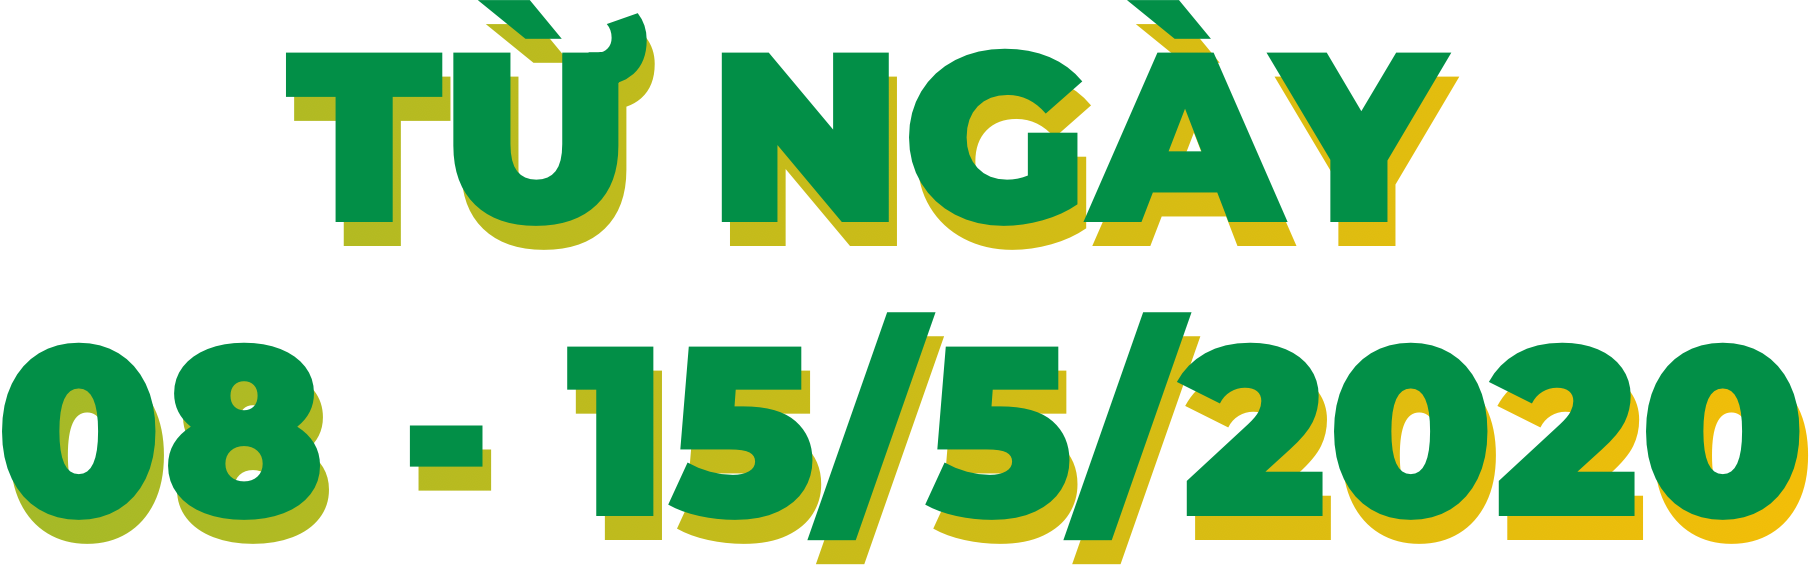
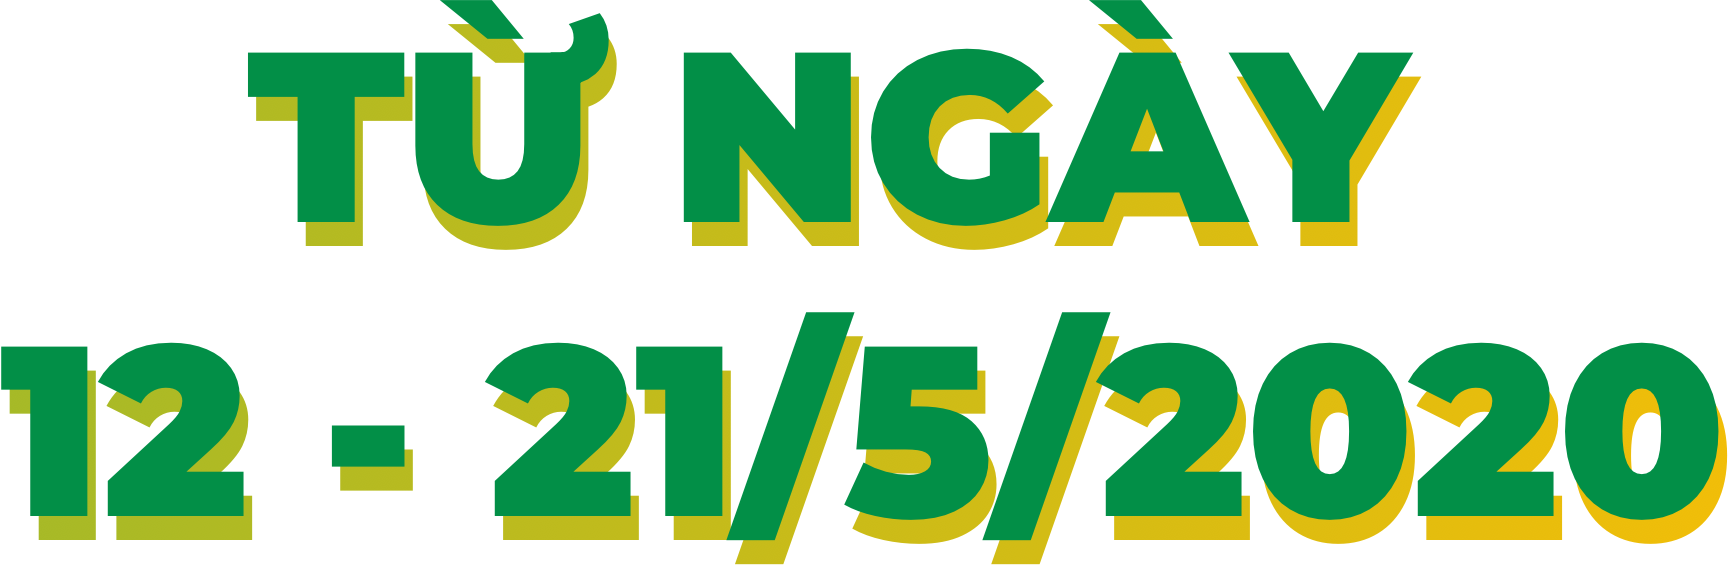
fast push

diff --git a/src/js/minify/common.min.js b/src/js/minify/common.min.js
@@ -1,1 +1,1 @@
-"use strict";function isMobile(){return/(android|bb\d+|meego).+mobile|avantgo|bada\/|blackberry|blazer|compal|elaine|fennec|hiptop|iemobile|ip(hone|od)|iris|kindle|lge |maemo|midp|mmp|netfront|opera m(ob|in)i|palm( os)?|phone|p(ixi|re)\/|plucker|pocket|psp|series(4|6)0|symbian|treo|up\.(browser|link)|vodafone|wap|windows (ce|phone)|xda|xiino|android|ipad|playbook|silk/i.test(navigator.userAgent||navigator.vendor||window.opera)||/1207|6310|6590|3gso|4thp|50[1-6]i|770s|802s|a wa|abac|ac(er|oo|s\-)|ai(ko|rn)|al(av|ca|co)|amoi|an(ex|ny|yw)|aptu|ar(ch|go)|as(te|us)|attw|au(di|\-m|r |s )|avan|be(ck|ll|nq)|bi(lb|rd)|bl(ac|az)|br(e|v)w|bumb|bw\-(n|u)|c55\/|capi|ccwa|cdm\-|cell|chtm|cldc|cmd\-|co(mp|nd)|craw|da(it|ll|ng)|dbte|dc\-s|devi|dica|dmob|do(c|p)o|ds(12|\-d)|el(49|ai)|em(l2|ul)|er(ic|k0)|esl8|ez([4-7]0|os|wa|ze)|fetc|fly(\-|_)|g1 u|g560|gene|gf\-5|g\-mo|go(\.w|od)|gr(ad|un)|haie|hcit|hd\-(m|p|t)|hei\-|hi(pt|ta)|hp( i|ip)|hs\-c|ht(c(\-| |_|a|g|p|s|t)|tp)|hu(aw|tc)|i\-(20|go|ma)|i230|iac( |\-|\/)|ibro|idea|ig01|ikom|im1k|inno|ipaq|iris|ja(t|v)a|jbro|jemu|jigs|kddi|keji|kgt( |\/)|klon|kpt |kwc\-|kyo(c|k)|le(no|xi)|lg( g|\/(k|l|u)|50|54|\-[a-w])|libw|lynx|m1\-w|m3ga|m50\/|ma(te|ui|xo)|mc(01|21|ca)|m\-cr|me(rc|ri)|mi(o8|oa|ts)|mmef|mo(01|02|bi|de|do|t(\-| |o|v)|zz)|mt(50|p1|v )|mwbp|mywa|n10[0-2]|n20[2-3]|n30(0|2)|n50(0|2|5)|n7(0(0|1)|10)|ne((c|m)\-|on|tf|wf|wg|wt)|nok(6|i)|nzph|o2im|op(ti|wv)|oran|owg1|p800|pan(a|d|t)|pdxg|pg(13|\-([1-8]|c))|phil|pire|pl(ay|uc)|pn\-2|po(ck|rt|se)|prox|psio|pt\-g|qa\-a|qc(07|12|21|32|60|\-[2-7]|i\-)|qtek|r380|r600|raks|rim9|ro(ve|zo)|s55\/|sa(ge|ma|mm|ms|ny|va)|sc(01|h\-|oo|p\-)|sdk\/|se(c(\-|0|1)|47|mc|nd|ri)|sgh\-|shar|sie(\-|m)|sk\-0|sl(45|id)|sm(al|ar|b3|it|t5)|so(ft|ny)|sp(01|h\-|v\-|v )|sy(01|mb)|t2(18|50)|t6(00|10|18)|ta(gt|lk)|tcl\-|tdg\-|tel(i|m)|tim\-|t\-mo|to(pl|sh)|ts(70|m\-|m3|m5)|tx\-9|up(\.b|g1|si)|utst|v400|v750|veri|vi(rg|te)|vk(40|5[0-3]|\-v)|vm40|voda|vulc|vx(52|53|60|61|70|80|81|83|85|98)|w3c(\-| )|webc|whit|wi(g |nc|nw)|wmlb|wonu|x700|yas\-|your|zeto|zte\-/i.test((navigator.userAgent||navigator.vendor||window.opera).substr(0,4))}var isOpera=!!window.opr&&!!opr.addons||!!window.opera||navigator.userAgent.indexOf(" OPR/")>=0,isFirefox="undefined"!=typeof InstallTrigger,isSafari=Object.prototype.toString.call(window.HTMLElement).indexOf("Constructor")>0,isIE=!!document.documentMode,isEdge=!isIE&&!!window.StyleMedia,isChrome=!!window.chrome&&!!window.chrome.webstore,isBlink=(isChrome||isOpera)&&!!window.CSS,baseUrl="http://vibanxungdang.merapgroup.com.vn/api/public/api/",isLocal="file:"===window.location.protocol||"localhost:"===window.location.protocol;const MerapCustomEvent={START_GAME:"start-game",END_GAME:"end-game"},StartGameEvent=new CustomEvent(MerapCustomEvent.START_GAME),EndGameEvent=new CustomEvent(MerapCustomEvent.END_GAME);var youtubeVideoHolder,youtubeVideoID,youtubePlayer,block={ch1:{key:"Enter",keycode:"13"}};function onYouTubeIframeAPIReady(){youtubePlayer=new YT.Player("merap-video-player",{height:youtubeVideoHolder.height(),width:youtubeVideoHolder.width(),videoId:youtubeVideoID,events:{onReady:onPlayerReady,onStateChange:onPlayerStateChange}})}function onPlayerReady(e){}function onPlayerStateChange(e){e.data==YT.PlayerState.ENDED&&(TweenMax.to($(".merap-video-thumb-image"),.3,{autoAlpha:1,ease:Sine.easeOut}),TweenMax.to($(".merap-video-thumb-overlay"),.3,{autoAlpha:1,ease:Sine.easeOut}),TweenMax.to($(".merap-video-thumb-svg"),.3,{autoAlpha:1,ease:Sine.easeOut}),TweenMax.to($(".video__title--mobile"),.3,{autoAlpha:1,ease:Sine.easeOut}),TweenMax.to($(".video__info--mobile"),.3,{autoAlpha:1,ease:Sine.easeOut}))}function isValid(e){return!/[~`!@#$%\^&*()+=\-\[\]\\';,.\/{}|\\":<>\?]/g.test(e)}function stopVideo(){youtubePlayer.stopVideo()}$(function(){var e,t=$(".loader"),o=[$(".video__section")],i=[$("#video-bg")],n=$(".floating__menu"),a=$("#milestone-mobile"),s=$("#milestone-time"),r=$("#milestone-name"),c=[{},{}],d=[],l=1,u=$(".tnc__image"),m=function(){b(),(isMobile()||$(window).width()<1e3)&&_(),h(),g(),e=$(".BTT_button"),null!=$(".BTT_button")[0]&&(C(),M())},p=function(){for(var e=0;e<i.length;e++){const t=i[e],n=o[e],a=t.width(),s=t.height(),r=$(window).width(),c=$(window).height();$(window).width()<1e3||isMobile()?(t.css({width:"100%",height:"auto",top:"0px",left:"0px",transform:"none"}),n.css({width:"100%",height:"auto"})):(n.css({width:"100%",height:"calc(100vh - 72px)"}),s<c&&t.css({height:c,width:"auto",top:"50%",left:"50%",transform:"translate(-50%, -50%)"}),a<r&&t.css({width:r,height:"auto",top:"50%",left:"50%",transform:"translate(-50%, -50%)"}))}},h=function(){$(".tnc__section").each(function(e){const t=$(this),o=t.find(".ec__button");o.attr("tncid",e),d.push(t),o.on("click",w)})},w=function(e){const t=$(e.currentTarget).attr("tncid");for(var o=0;o<d.length;o++){const e=d[o];t==o&&e.toggleClass("active")}},g=function(){var e=document.createElement("script");(youtubeVideoHolder=$("#merap-video-thumb")).on("click",v),youtubeVideoID=$("#merap-video-thumb").attr("videoID"),e.src="https://www.youtube.com/iframe_api";var t=document.getElementsByTagName("script")[0];t.parentNode.insertBefore(e,t)},v=function(){youtubePlayer.playVideo(),f()},f=function(){TweenMax.to($(".merap-video-thumb-image"),.3,{autoAlpha:0,ease:Sine.easeOut}),TweenMax.to($(".merap-video-thumb-overlay"),.3,{autoAlpha:0,ease:Sine.easeOut}),TweenMax.to($(".merap-video-thumb-svg"),.3,{autoAlpha:0,ease:Sine.easeOut}),TweenMax.to($(".video__title--mobile"),.3,{autoAlpha:0,ease:Sine.easeOut}),TweenMax.to($(".video__info--mobile"),.3,{autoAlpha:0,ease:Sine.easeOut})},b=function(){$(".game__holder .game__item").each(function(e){const t=$(this),o=t.attr("itemid"),i=t.position().left,n=t.find(".game__period").text().trim(),a=t.find(".button__wrapper").text().trim();t.on("click",k),t.hasClass("active")&&(l=o);const s={left:i,time:n,gameName:a};c[o]=s}),y()},y=function(){const e=c[l];s.text(e.time),r.text(e.gameName),TweenMax.to(a,.3,{left:e.left,ease:Back.easeOut});const t="./images/all-prize-"+(Number(l)+1)+".png";u.each(function(e){$(this).attr("src",t)})},k=function(e){const t=$(e.currentTarget),o=t.attr("itemid");l=Number(o),t.addClass("active"),$(".game__holder .game__item").each(function(e){const t=$(this);t.attr("itemid")!=l&&t.removeClass("active")}),y()},_=function(){a.draggable({axis:"x",start:x,drag:T,stop:E})},x=function(e,t){$(".game__holder .game__item").each(function(e){$(this).removeClass("active")})},T=function(e,t){const o=t.position.left;for(var i=0;i<c.length;i++){const e=c[i];Math.abs(e.left-o)<=50&&(l=i,s.text(e.time),r.text(e.gameName))}},E=function(e,t){c[l].left;$(".game__holder .game__item").each(function(e){var t=$(this);t.attr("itemid")==l?t.addClass("active"):t.removeClass("active")}),y()},C=function(){TweenMax.to(n,.3,{autoAlpha:0,ease:Sine.easeOut}),$(window).scroll(function(e){M()}),e.on("click",function(e){e.preventDefault(),$("body,html").animate({scrollTop:0},700)})},M=function(){$(window).scrollTop()>300?(e.addClass("cd-is-visible"),TweenMax.to(n,.3,{autoAlpha:1,ease:Sine.easeOut})):(e.removeClass("cd-is-visible cd-fade-out"),TweenMax.to(n,.3,{autoAlpha:0,ease:Sine.easeOut})),$(window).scrollTop()>1200&&e.addClass("cd-fade-out")},S=function(){TweenMax.to(t,.1,{autoAlpha:0,ease:Sine.easeOut,onComplete:()=>{if(A(),window.location.hash.includes("quiz-section")){const e=$(document).height()-$("#quiz-section").height()-150;$(window).scrollTop(e)}}}),$("body").css("overflow-y","visible")},A=function(e){clearTimeout(void 0),p()},O=function(){document.getElementById("phone").addEventListener("keypress",function(e){13===e.keyCode&&(e.preventDefault(),document.getElementById("register-button").click())}),document.getElementById("ref_code").addEventListener("keypress",function(e){13===e.keyCode&&(e.preventDefault(),document.getElementById("register-button").click())}),document.getElementById("answer-input").addEventListener("keypress",function(e){13===e.keyCode&&(e.preventDefault(),document.getElementById("quiz-button").click())})},I=function(){document.getElementById("playnow-hover-button").addEventListener("click",function(){window.scrollTo(0,document.body.scrollHeight+600)},!1),document.getElementById("navbar-game-button").addEventListener("click",function(){window.scrollTo(0,document.body.scrollHeight+600)},!1),document.getElementById("navbar-logo").addEventListener("click",function(){window.scrollTo(0,0)},!1)};setTimeout(function(){I(),m(),p(),O(),$(window).on("resize",A),setTimeout(S,500);var e=$("#registration-section").position();window.scrollTo({top:e.top-80,behavior:"smooth"})},100)}),$("#login-refcode").keypress(function(e){return isValid(String.fromCharCode(e.keyCode))}),$("#ref_code").keypress(function(e){return isValid(String.fromCharCode(e.keyCode))});
+"use strict";function isMobile(){return/(android|bb\d+|meego).+mobile|avantgo|bada\/|blackberry|blazer|compal|elaine|fennec|hiptop|iemobile|ip(hone|od)|iris|kindle|lge |maemo|midp|mmp|netfront|opera m(ob|in)i|palm( os)?|phone|p(ixi|re)\/|plucker|pocket|psp|series(4|6)0|symbian|treo|up\.(browser|link)|vodafone|wap|windows (ce|phone)|xda|xiino|android|ipad|playbook|silk/i.test(navigator.userAgent||navigator.vendor||window.opera)||/1207|6310|6590|3gso|4thp|50[1-6]i|770s|802s|a wa|abac|ac(er|oo|s\-)|ai(ko|rn)|al(av|ca|co)|amoi|an(ex|ny|yw)|aptu|ar(ch|go)|as(te|us)|attw|au(di|\-m|r |s )|avan|be(ck|ll|nq)|bi(lb|rd)|bl(ac|az)|br(e|v)w|bumb|bw\-(n|u)|c55\/|capi|ccwa|cdm\-|cell|chtm|cldc|cmd\-|co(mp|nd)|craw|da(it|ll|ng)|dbte|dc\-s|devi|dica|dmob|do(c|p)o|ds(12|\-d)|el(49|ai)|em(l2|ul)|er(ic|k0)|esl8|ez([4-7]0|os|wa|ze)|fetc|fly(\-|_)|g1 u|g560|gene|gf\-5|g\-mo|go(\.w|od)|gr(ad|un)|haie|hcit|hd\-(m|p|t)|hei\-|hi(pt|ta)|hp( i|ip)|hs\-c|ht(c(\-| |_|a|g|p|s|t)|tp)|hu(aw|tc)|i\-(20|go|ma)|i230|iac( |\-|\/)|ibro|idea|ig01|ikom|im1k|inno|ipaq|iris|ja(t|v)a|jbro|jemu|jigs|kddi|keji|kgt( |\/)|klon|kpt |kwc\-|kyo(c|k)|le(no|xi)|lg( g|\/(k|l|u)|50|54|\-[a-w])|libw|lynx|m1\-w|m3ga|m50\/|ma(te|ui|xo)|mc(01|21|ca)|m\-cr|me(rc|ri)|mi(o8|oa|ts)|mmef|mo(01|02|bi|de|do|t(\-| |o|v)|zz)|mt(50|p1|v )|mwbp|mywa|n10[0-2]|n20[2-3]|n30(0|2)|n50(0|2|5)|n7(0(0|1)|10)|ne((c|m)\-|on|tf|wf|wg|wt)|nok(6|i)|nzph|o2im|op(ti|wv)|oran|owg1|p800|pan(a|d|t)|pdxg|pg(13|\-([1-8]|c))|phil|pire|pl(ay|uc)|pn\-2|po(ck|rt|se)|prox|psio|pt\-g|qa\-a|qc(07|12|21|32|60|\-[2-7]|i\-)|qtek|r380|r600|raks|rim9|ro(ve|zo)|s55\/|sa(ge|ma|mm|ms|ny|va)|sc(01|h\-|oo|p\-)|sdk\/|se(c(\-|0|1)|47|mc|nd|ri)|sgh\-|shar|sie(\-|m)|sk\-0|sl(45|id)|sm(al|ar|b3|it|t5)|so(ft|ny)|sp(01|h\-|v\-|v )|sy(01|mb)|t2(18|50)|t6(00|10|18)|ta(gt|lk)|tcl\-|tdg\-|tel(i|m)|tim\-|t\-mo|to(pl|sh)|ts(70|m\-|m3|m5)|tx\-9|up(\.b|g1|si)|utst|v400|v750|veri|vi(rg|te)|vk(40|5[0-3]|\-v)|vm40|voda|vulc|vx(52|53|60|61|70|80|81|83|85|98)|w3c(\-| )|webc|whit|wi(g |nc|nw)|wmlb|wonu|x700|yas\-|your|zeto|zte\-/i.test((navigator.userAgent||navigator.vendor||window.opera).substr(0,4))}var isOpera=!!window.opr&&!!opr.addons||!!window.opera||navigator.userAgent.indexOf(" OPR/")>=0,isFirefox="undefined"!=typeof InstallTrigger,isSafari=Object.prototype.toString.call(window.HTMLElement).indexOf("Constructor")>0,isIE=!!document.documentMode,isEdge=!isIE&&!!window.StyleMedia,isChrome=!!window.chrome&&!!window.chrome.webstore,isBlink=(isChrome||isOpera)&&!!window.CSS,baseUrl="https://vibanxungdang.merapgroup.com.vn/api/public/api/",isLocal="file:"===window.location.protocol||"localhost:"===window.location.protocol;const MerapCustomEvent={START_GAME:"start-game",END_GAME:"end-game"},StartGameEvent=new CustomEvent(MerapCustomEvent.START_GAME),EndGameEvent=new CustomEvent(MerapCustomEvent.END_GAME);var youtubeVideoHolder,youtubeVideoID,youtubePlayer,block={ch1:{key:"Enter",keycode:"13"}};function onYouTubeIframeAPIReady(){youtubePlayer=new YT.Player("merap-video-player",{height:youtubeVideoHolder.height(),width:youtubeVideoHolder.width(),videoId:youtubeVideoID,events:{onReady:onPlayerReady,onStateChange:onPlayerStateChange}})}function onPlayerReady(e){}function onPlayerStateChange(e){e.data==YT.PlayerState.ENDED&&(TweenMax.to($(".merap-video-thumb-image"),.3,{autoAlpha:1,ease:Sine.easeOut}),TweenMax.to($(".merap-video-thumb-overlay"),.3,{autoAlpha:1,ease:Sine.easeOut}),TweenMax.to($(".merap-video-thumb-svg"),.3,{autoAlpha:1,ease:Sine.easeOut}),TweenMax.to($(".video__title--mobile"),.3,{autoAlpha:1,ease:Sine.easeOut}),TweenMax.to($(".video__info--mobile"),.3,{autoAlpha:1,ease:Sine.easeOut}))}function isValid(e){return!/[~`!@#$%\^&*()+=\-\[\]\\';,.\/{}|\\":<>\?]/g.test(e)}function stopVideo(){youtubePlayer.stopVideo()}$(function(){var e,t=$(".loader"),o=[$(".video__section")],i=[$("#video-bg")],n=$(".floating__menu"),a=$("#milestone-mobile"),s=$("#milestone-time"),r=$("#milestone-name"),c=[{},{}],d=[],l=1,u=$(".tnc__image"),m=function(){b(),(isMobile()||$(window).width()<1e3)&&_(),h(),g(),e=$(".BTT_button"),null!=$(".BTT_button")[0]&&(C(),M())},p=function(){for(var e=0;e<i.length;e++){const t=i[e],n=o[e],a=t.width(),s=t.height(),r=$(window).width(),c=$(window).height();$(window).width()<1e3||isMobile()?(t.css({width:"100%",height:"auto",top:"0px",left:"0px",transform:"none"}),n.css({width:"100%",height:"auto"})):(n.css({width:"100%",height:"calc(100vh - 72px)"}),s<c&&t.css({height:c,width:"auto",top:"50%",left:"50%",transform:"translate(-50%, -50%)"}),a<r&&t.css({width:r,height:"auto",top:"50%",left:"50%",transform:"translate(-50%, -50%)"}))}},h=function(){$(".tnc__section").each(function(e){const t=$(this),o=t.find(".ec__button");o.attr("tncid",e),d.push(t),o.on("click",w)})},w=function(e){const t=$(e.currentTarget).attr("tncid");for(var o=0;o<d.length;o++){const e=d[o];t==o&&e.toggleClass("active")}},g=function(){var e=document.createElement("script");(youtubeVideoHolder=$("#merap-video-thumb")).on("click",v),youtubeVideoID=$("#merap-video-thumb").attr("videoID"),e.src="https://www.youtube.com/iframe_api";var t=document.getElementsByTagName("script")[0];t.parentNode.insertBefore(e,t)},v=function(){youtubePlayer.playVideo(),f()},f=function(){TweenMax.to($(".merap-video-thumb-image"),.3,{autoAlpha:0,ease:Sine.easeOut}),TweenMax.to($(".merap-video-thumb-overlay"),.3,{autoAlpha:0,ease:Sine.easeOut}),TweenMax.to($(".merap-video-thumb-svg"),.3,{autoAlpha:0,ease:Sine.easeOut}),TweenMax.to($(".video__title--mobile"),.3,{autoAlpha:0,ease:Sine.easeOut}),TweenMax.to($(".video__info--mobile"),.3,{autoAlpha:0,ease:Sine.easeOut})},b=function(){$(".game__holder .game__item").each(function(e){const t=$(this),o=t.attr("itemid"),i=t.position().left,n=t.find(".game__period").text().trim(),a=t.find(".button__wrapper").text().trim();t.on("click",k),t.hasClass("active")&&(l=o);const s={left:i,time:n,gameName:a};c[o]=s}),y()},y=function(){const e=c[l];s.text(e.time),r.text(e.gameName),TweenMax.to(a,.3,{left:e.left,ease:Back.easeOut});const t="./images/all-prize-"+(Number(l)+1)+".png";u.each(function(e){$(this).attr("src",t)})},k=function(e){const t=$(e.currentTarget),o=t.attr("itemid");l=Number(o),t.addClass("active"),$(".game__holder .game__item").each(function(e){const t=$(this);t.attr("itemid")!=l&&t.removeClass("active")}),y()},_=function(){a.draggable({axis:"x",start:x,drag:T,stop:E})},x=function(e,t){$(".game__holder .game__item").each(function(e){$(this).removeClass("active")})},T=function(e,t){const o=t.position.left;for(var i=0;i<c.length;i++){const e=c[i];Math.abs(e.left-o)<=50&&(l=i,s.text(e.time),r.text(e.gameName))}},E=function(e,t){c[l].left;$(".game__holder .game__item").each(function(e){var t=$(this);t.attr("itemid")==l?t.addClass("active"):t.removeClass("active")}),y()},C=function(){TweenMax.to(n,.3,{autoAlpha:0,ease:Sine.easeOut}),$(window).scroll(function(e){M()}),e.on("click",function(e){e.preventDefault(),$("body,html").animate({scrollTop:0},700)})},M=function(){$(window).scrollTop()>300?(e.addClass("cd-is-visible"),TweenMax.to(n,.3,{autoAlpha:1,ease:Sine.easeOut})):(e.removeClass("cd-is-visible cd-fade-out"),TweenMax.to(n,.3,{autoAlpha:0,ease:Sine.easeOut})),$(window).scrollTop()>1200&&e.addClass("cd-fade-out")},S=function(){TweenMax.to(t,.1,{autoAlpha:0,ease:Sine.easeOut,onComplete:()=>{if(A(),window.location.hash.includes("quiz-section")){const e=$(document).height()-$("#quiz-section").height()-150;$(window).scrollTop(e)}}}),$("body").css("overflow-y","visible")},A=function(e){clearTimeout(void 0),p()},O=function(){document.getElementById("phone").addEventListener("keypress",function(e){13===e.keyCode&&(e.preventDefault(),document.getElementById("register-button").click())}),document.getElementById("ref_code").addEventListener("keypress",function(e){13===e.keyCode&&(e.preventDefault(),document.getElementById("register-button").click())}),document.getElementById("answer-input").addEventListener("keypress",function(e){13===e.keyCode&&(e.preventDefault(),document.getElementById("quiz-button").click())})},I=function(){document.getElementById("playnow-hover-button").addEventListener("click",function(){window.scrollTo(0,document.body.scrollHeight+600)},!1),document.getElementById("navbar-game-button").addEventListener("click",function(){window.scrollTo(0,document.body.scrollHeight+600)},!1),document.getElementById("navbar-logo").addEventListener("click",function(){window.scrollTo(0,0)},!1)};setTimeout(function(){I(),m(),p(),O(),$(window).on("resize",A),setTimeout(S,500);var e=$("#registration-section").position();window.scrollTo({top:e.top-80,behavior:"smooth"})},100)}),$("#login-refcode").keypress(function(e){return isValid(String.fromCharCode(e.keyCode))}),$("#ref_code").keypress(function(e){return isValid(String.fromCharCode(e.keyCode))});

diff --git a/src/js/minify/registration-part2.min.js b/src/js/minify/registration-part2.min.js
@@ -1,1 +1,1 @@
-$(function(){let n=[],e=[],i=0,a=0,o=[{id:25,name:"Q. Ba Đình"},{id:26,name:"Q. Cầu Giấy"},{id:27,name:"Q. Đống Đa"},{id:28,name:"Q. Hai Bà Trưng"},{id:29,name:"Q. Hoàn Kiếm"},{id:30,name:"Q. Long Biên"},{id:31,name:"Q. Tây Hồ"},{id:32,name:"Q. Thanh Xuân"},{id:33,name:"Q. Hoàng Mai"},{id:34,name:"H. Đông Anh"},{id:35,name:"H. Gia Lâm"},{id:36,name:"H. Sóc Sơn"},{id:37,name:"H. Thanh Trì"},{id:38,name:"H. Từ Liêm"},{id:629,name:"H. Chương Mỹ"},{id:630,name:"H. Đan Phượng"},{id:631,name:"Q. Hà Đông"},{id:632,name:"H. Hoài Đức"},{id:633,name:"H. Phú Xuyên"},{id:649,name:"H. Ba Vì"},{id:650,name:"T. Bắc Ninh"},{id:651,name:"T. Hà Tây"},{id:652,name:"T. Hưng Yên"},{id:653,name:"H. Mê Linh"},{id:654,name:"H. Mỹ Đức"},{id:655,name:"P. Nguyễn Tuân"},{id:656,name:"H. Quốc Oai"},{id:657,name:"TX. Sơn Tây"},{id:658,name:"X. Tân Triều"},{id:659,name:"H. Thạch Thất"},{id:660,name:"H. Văn Giang"},{id:663,name:"H. Thường Tín"},{id:675,name:"TT. Xuân Mai"},{id:676,name:"TT. Phú Minh"},{id:677,name:"H. Đông Ba"},{id:678,name:"Q. Hòa Bình"}],t={message:"Update success"},c=$("#registration-profile"),s=$("#profile-error"),d=$("#profile-button"),m="profile",r="login",l=0,h=["passport","username_facebook","email","province_id","district_id","address","company_name"],u={passport:"passport",username_facebook:"nick-facebook",email:"email",address:"work-address",company_name:"store-address"},g=$("#agreement-checkbox"),p={email:"Vui lòng nhập email của bạn",passport:"Vui lòng nhập số CMND để nhận giải thưởng",username_facebook:"Vui lòng nhập nick facebook của bạn để tham gia",province_id:"Bạn chưa chọn địa chỉ đang công tác",district_id:"Bạn chưa chọn địa chỉ đang công tác",address:"Bạn chưa nhập đầy đủ địa chỉ đang công tác",company_name:"Bạn chưa nhập đầy đủ địa chỉ đang công tác"},T={email:null,passport:null,username_facebook:null,province_id:null,district_id:null,address:null,company_name:null},f=$("#tnc-link"),w=$("#security-link"),H=$("#profile-guide"),y=$("#guide-button"),k=$("#profile-content"),B=$("#congrate-holder"),b=$("#congrate-button"),v=$("#congrate-title"),N=$("#congrate-message"),M=$("#quiz-section"),x=$("#quiz-result-feedback"),S=function(){_(),d.on("click",O),isLocal?(n=[{id:4,name:"Hà Nội"},{id:8,name:"TP. Hồ Chí Minh"},{id:76,name:"An Giang"},{id:64,name:"Bà Rịa Vũng Tàu"},{id:781,name:"Bắc Cạn"},{id:281,name:"Bắc Giang"},{id:240,name:"Bạc Liêu"},{id:241,name:"Bắc Ninh"},{id:75,name:"Bến Tre"},{id:650,name:"Bình Định"},{id:56,name:"Bình Dương"},{id:651,name:"Bình Phước"},{id:62,name:"Bình Thuận"},{id:780,name:"Cà Mau"},{id:710,name:"Cần Thơ"},{id:26,name:"Cao Bằng"},{id:511,name:"Đà Nẵng"},{id:500,name:"Đăk Lăk"},{id:501,name:"Đăk Nông"},{id:230,name:"Điện Biên"},{id:61,name:"Đồng Nai"},{id:67,name:"Đồng Tháp"},{id:59,name:"Gia Lai"},{id:219,name:"Hà Giang"},{id:351,name:"Hà Nam"},{id:43,name:"Hà Tây"},{id:39,name:"Hà Tĩnh"},{id:320,name:"Hải Dương"},{id:31,name:"Hải Phòng"},{id:711,name:"Hậu Giang"},{id:218,name:"Hòa Bình"},{id:321,name:"Hưng Yên"},{id:58,name:"Khánh Hòa"},{id:77,name:"Kiên Giang"},{id:60,name:"Kon Tum"},{id:231,name:"Lai Châu"},{id:25,name:"Lâm Đồng"},{id:20,name:"Lạng Sơn"},{id:63,name:"Lào Cai"},{id:72,name:"Long An"},{id:350,name:"Nam Định"},{id:38,name:"Nghệ An"},{id:30,name:"Ninh Bình"},{id:68,name:"Ninh Thuận"},{id:210,name:"Phú Thọ"},{id:57,name:"Phú Yên"},{id:52,name:"Quảng Bình"},{id:510,name:"Quảng Nam"},{id:55,name:"Quảng Ngãi"},{id:33,name:"Quảng Ninh"},{id:53,name:"Quảng Trị"},{id:79,name:"Sóc Trăng"},{id:22,name:"Sơn La"},{id:66,name:"Tây Ninh"},{id:36,name:"Thái Bình"},{id:280,name:"Thái Nguyên"},{id:282,name:"Thanh Hóa"},{id:37,name:"Thanh Hóa"},{id:54,name:"Thừa Thiên Huế"},{id:73,name:"Tiền Giang"},{id:74,name:"Trà Vinh"},{id:27,name:"Tuyên Quang"},{id:70,name:"Vĩnh Long"},{id:211,name:"Vĩnh Phúc"},{id:29,name:"Yên Bái"}],z()):D()},_=function(){f.on("click",()=>{$(".tnc__section").removeClass("active"),$("#condition-section").addClass("active")}),w.on("click",()=>{$(".tnc__section").removeClass("active"),$("#security-section").addClass("active")})},L=function(n,e){switch(n){case m:TweenMax.killTweensOf(s),TweenMax.to(s,.3,{alpha:1,ease:Sine.easeOut}),s.html(e);break;case r:TweenMax.killTweensOf(loginError),TweenMax.to(loginError,.3,{alpha:1,ease:Sine.easeOut}),loginError.html(e)}clearTimeout(l),l=setTimeout(Q,5e3,n)},Q=function(n){switch(n){case m:TweenMax.killTweensOf(s),TweenMax.to(s,.3,{alpha:0,ease:Sine.easeOut});break;case r:TweenMax.killTweensOf(loginError),TweenMax.to(loginError,.3,{alpha:0,ease:Sine.easeOut})}},O=function(){if(V(),A())if(g.prop("checked"))if(isLocal)C(t);else{const n=baseUrl+"profile";$.ajax({headers:{Authorization:"Bearer "+window.localStorage.getItem("token")},type:"POST",contentType:"application/json",data:JSON.stringify(T),url:n,success:C,error:E})}else L(m,"Bạn chưa đồng ý với điều khoản và thể lệ chương trình!")},C=function(n){"Update success"===n.message&&(window.localStorage.setItem("profile",!0),P(),G())},P=function(){c.css({position:"absolute",left:"-100%",top:"-100%",opacity:0,visibility:"hidden"})},G=function(){B.css({display:"block"})},E=function(n){const e=n.responseJSON;e.message?L(m,e.message):L(m,"Không thể đăng ký, vui lòng kiểm tra lại thông tin!")},V=function(){0!=i&&(T.province_id=i),0!=a&&(T.district_id=a),Object.keys(u).forEach(n=>{const e=$("#"+u[n]).val();T[n]=e}),F(i,Z)},A=function(){const n=[];for(let e=0;e<h.length;e++){const i=h[e];if(null===T[i]||void 0===T[i]||""===T[i]){const e=p[i];if(!n.includes(i))return L(m,e),!1}}return!0},D=function(){const n=baseUrl+"province";$.ajax({type:"GET",url:n,success:K,error:j})},K=function(e){n=e,z()},j=function(n){const e=n.responseJSON;e.message?s.html(e.message):s.html("Please try again later!")},z=function(){const e=n.map(n=>n.name);new DropDownBox("dropdown-work-city",{itemArray:e,itemHeight:40},"Tỉnh/Thành Phố",R);y.on("click",J),b.on("click",U),Y()},U=function(){Number(window.localStorage.getItem("gameLeft"))>0?(P(),B.css({display:"none"}),setTimeout(I,100),x.css("display","none")):X()},X=function(){TweenMax.killTweensOf(N),TweenMax.to(N,.3,{autoAlpha:1,ease:Sine.easeOut}),$("#congrate-button-text").text("OK"),v.text("Bạn đã hết lượt chơi."),N.text("Hẹn gặp bạn ở chương trình sau!"),$("#congrate-button-text").on("click",()=>{window.scrollTo(0,0)}),clearTimeout(void 0)},J=function(){q()},Y=function(){H.css({display:"block"}),k.css({opacity:0,visibility:"hidden"})},q=function(){H.css({display:"none"}),k.css({opacity:1,visibility:"visible"})},I=function(){M.css({position:"relative",opacity:1,visibility:"visible"}),window.dispatchEvent(StartGameEvent);const n=$(document).height()-$("#quiz-section").height()-100;$(window).scrollTop(n)},R=function(e){i=n.find(n=>n.name===e).id,a=0,isLocal?Z(o):F(i,Z)},F=function(n,e){const i=baseUrl+"province/"+n;$.ajax({type:"GET",url:i,success:e,error:W})},W=function(n){const e=n.responseJSON;e.message?s.html(e.message):s.html("Please try again later!")},Z=function(n){e=n;const i={itemArray:n.map(n=>n.name),itemHeight:40};new DropDownBox("dropdown-work-dist",i,"Quận/Huyện",nn)},nn=function(n){a=e.find(e=>e.name===n).id},en=function(){window.dropdownMap&&window.dropdownMap.size>0&&window.dropdownMap.forEach(n=>n.collapse())};window.addEventListener("click",en),S()});
+$(function(){let n=[],e=[],i=[],a=0,o=0,t=[{id:25,name:"Q. Ba Đình"},{id:26,name:"Q. Cầu Giấy"},{id:27,name:"Q. Đống Đa"},{id:28,name:"Q. Hai Bà Trưng"},{id:29,name:"Q. Hoàn Kiếm"},{id:30,name:"Q. Long Biên"},{id:31,name:"Q. Tây Hồ"},{id:32,name:"Q. Thanh Xuân"},{id:33,name:"Q. Hoàng Mai"},{id:34,name:"H. Đông Anh"},{id:35,name:"H. Gia Lâm"},{id:36,name:"H. Sóc Sơn"},{id:37,name:"H. Thanh Trì"},{id:38,name:"H. Từ Liêm"},{id:629,name:"H. Chương Mỹ"},{id:630,name:"H. Đan Phượng"},{id:631,name:"Q. Hà Đông"},{id:632,name:"H. Hoài Đức"},{id:633,name:"H. Phú Xuyên"},{id:649,name:"H. Ba Vì"},{id:650,name:"T. Bắc Ninh"},{id:651,name:"T. Hà Tây"},{id:652,name:"T. Hưng Yên"},{id:653,name:"H. Mê Linh"},{id:654,name:"H. Mỹ Đức"},{id:655,name:"P. Nguyễn Tuân"},{id:656,name:"H. Quốc Oai"},{id:657,name:"TX. Sơn Tây"},{id:658,name:"X. Tân Triều"},{id:659,name:"H. Thạch Thất"},{id:660,name:"H. Văn Giang"},{id:663,name:"H. Thường Tín"},{id:675,name:"TT. Xuân Mai"},{id:676,name:"TT. Phú Minh"},{id:677,name:"H. Đông Ba"},{id:678,name:"Q. Hòa Bình"}],c={message:"Update success"},s=$("#registration-profile"),d=$("#profile-error"),m=$("#profile-button"),r="profile",l="login",h=0,u=["passport","username_facebook","email","province_id","district_id","address","company_name"],g={passport:"passport",username_facebook:"nick-facebook",email:"email",address:"work-address",company_name:"store-address"},p=$("#agreement-checkbox"),T={email:"Vui lòng nhập email của bạn",passport:"Vui lòng nhập số CMND để nhận giải thưởng",username_facebook:"Vui lòng nhập nick facebook của bạn để tham gia",province_id:"Bạn chưa chọn địa chỉ đang công tác",district_id:"Bạn chưa chọn địa chỉ đang công tác",address:"Bạn chưa nhập đầy đủ địa chỉ đang công tác",company_name:"Bạn chưa nhập đầy đủ địa chỉ đang công tác"},f={email:null,passport:null,username_facebook:null,province_id:null,district_id:null,address:null,company_name:null},w=$("#tnc-link"),H=$("#security-link"),y=$("#profile-guide"),k=$("#guide-button"),B=$("#profile-content"),b=$("#congrate-holder"),v=$("#congrate-button"),N=$("#congrate-title"),M=$("#congrate-message"),x=$("#quiz-section"),S=$("#quiz-result-feedback"),_=function(){L(),m.on("click",C),isLocal?(n=[{id:4,name:"Hà Nội"},{id:8,name:"TP. Hồ Chí Minh"},{id:76,name:"An Giang"},{id:64,name:"Bà Rịa Vũng Tàu"},{id:781,name:"Bắc Cạn"},{id:281,name:"Bắc Giang"},{id:240,name:"Bạc Liêu"},{id:241,name:"Bắc Ninh"},{id:75,name:"Bến Tre"},{id:650,name:"Bình Định"},{id:56,name:"Bình Dương"},{id:651,name:"Bình Phước"},{id:62,name:"Bình Thuận"},{id:780,name:"Cà Mau"},{id:710,name:"Cần Thơ"},{id:26,name:"Cao Bằng"},{id:511,name:"Đà Nẵng"},{id:500,name:"Đăk Lăk"},{id:501,name:"Đăk Nông"},{id:230,name:"Điện Biên"},{id:61,name:"Đồng Nai"},{id:67,name:"Đồng Tháp"},{id:59,name:"Gia Lai"},{id:219,name:"Hà Giang"},{id:351,name:"Hà Nam"},{id:43,name:"Hà Tây"},{id:39,name:"Hà Tĩnh"},{id:320,name:"Hải Dương"},{id:31,name:"Hải Phòng"},{id:711,name:"Hậu Giang"},{id:218,name:"Hòa Bình"},{id:321,name:"Hưng Yên"},{id:58,name:"Khánh Hòa"},{id:77,name:"Kiên Giang"},{id:60,name:"Kon Tum"},{id:231,name:"Lai Châu"},{id:25,name:"Lâm Đồng"},{id:20,name:"Lạng Sơn"},{id:63,name:"Lào Cai"},{id:72,name:"Long An"},{id:350,name:"Nam Định"},{id:38,name:"Nghệ An"},{id:30,name:"Ninh Bình"},{id:68,name:"Ninh Thuận"},{id:210,name:"Phú Thọ"},{id:57,name:"Phú Yên"},{id:52,name:"Quảng Bình"},{id:510,name:"Quảng Nam"},{id:55,name:"Quảng Ngãi"},{id:33,name:"Quảng Ninh"},{id:53,name:"Quảng Trị"},{id:79,name:"Sóc Trăng"},{id:22,name:"Sơn La"},{id:66,name:"Tây Ninh"},{id:36,name:"Thái Bình"},{id:280,name:"Thái Nguyên"},{id:282,name:"Thanh Hóa"},{id:37,name:"Thanh Hóa"},{id:54,name:"Thừa Thiên Huế"},{id:73,name:"Tiền Giang"},{id:74,name:"Trà Vinh"},{id:27,name:"Tuyên Quang"},{id:70,name:"Vĩnh Long"},{id:211,name:"Vĩnh Phúc"},{id:29,name:"Yên Bái"}],U()):K()},L=function(){w.on("click",()=>{$(".tnc__section").removeClass("active"),$("#condition-section").addClass("active")}),H.on("click",()=>{$(".tnc__section").removeClass("active"),$("#security-section").addClass("active")})},Q=function(n,e){switch(n){case r:TweenMax.killTweensOf(d),TweenMax.to(d,.3,{alpha:1,ease:Sine.easeOut}),d.html(e);break;case l:TweenMax.killTweensOf(loginError),TweenMax.to(loginError,.3,{alpha:1,ease:Sine.easeOut}),loginError.html(e)}clearTimeout(h),h=setTimeout(O,5e3,n)},O=function(n){switch(n){case r:TweenMax.killTweensOf(d),TweenMax.to(d,.3,{alpha:0,ease:Sine.easeOut});break;case l:TweenMax.killTweensOf(loginError),TweenMax.to(loginError,.3,{alpha:0,ease:Sine.easeOut})}},C=function(){if(A(),D())if(p.prop("checked"))if(isLocal)P(c);else{const n=baseUrl+"profile";$.ajax({headers:{Authorization:"Bearer "+window.localStorage.getItem("token")},type:"POST",contentType:"application/json",data:JSON.stringify(f),url:n,success:P,error:V})}else Q(r,"Bạn chưa đồng ý với điều khoản và thể lệ chương trình!")},P=function(n){"Update success"===n.message&&(window.localStorage.setItem("profile",!0),G(),E())},G=function(){s.css({position:"absolute",left:"-100%",top:"-100%",opacity:0,visibility:"hidden"})},E=function(){b.css({display:"block"})},V=function(n){const e=n.responseJSON;e.message?Q(r,e.message):Q(r,"Không thể đăng ký, vui lòng kiểm tra lại thông tin!")},A=function(){0!=a&&(f.province_id=a),0!=o&&(f.district_id=o),Object.keys(g).forEach(n=>{const e=$("#"+g[n]).val();f[n]=e}),W(a,nn)},D=function(){const n=[];for(let e=0;e<u.length;e++){const i=u[e];if(null===f[i]||void 0===f[i]||""===f[i]){const e=T[i];if(!n.includes(i))return Q(r,e),!1}}return!0},K=function(){const n=baseUrl+"province";$.ajax({type:"GET",url:n,success:j,error:z})},j=function(i){n=i,console.log(n),n.map((n,i)=>{282!=n.id&&e.push(n)}),n=e,U()},z=function(n){const e=n.responseJSON;e.message?d.html(e.message):d.html("Please try again later!")},U=function(){const e=n.map(n=>n.name);new DropDownBox("dropdown-work-city",{itemArray:e,itemHeight:40},"Tỉnh/Thành Phố",F);k.on("click",Y),v.on("click",X),q()},X=function(){Number(window.localStorage.getItem("gameLeft"))>0?(G(),b.css({display:"none"}),setTimeout(R,100),S.css("display","none")):J()},J=function(){TweenMax.killTweensOf(M),TweenMax.to(M,.3,{autoAlpha:1,ease:Sine.easeOut}),$("#congrate-button-text").text("OK"),N.text("Bạn đã hết lượt chơi."),M.text("Hẹn gặp bạn ở chương trình sau!"),$("#congrate-button-text").on("click",()=>{window.scrollTo(0,0)}),clearTimeout(void 0)},Y=function(){I()},q=function(){y.css({display:"block"}),B.css({opacity:0,visibility:"hidden"})},I=function(){y.css({display:"none"}),B.css({opacity:1,visibility:"visible"})},R=function(){x.css({position:"relative",opacity:1,visibility:"visible"}),window.dispatchEvent(StartGameEvent);const n=$(document).height()-$("#quiz-section").height()-100;$(window).scrollTop(n)},F=function(e){a=n.find(n=>n.name===e).id,o=0,isLocal?nn(t):W(a,nn)},W=function(n,e){const i=baseUrl+"province/"+n;$.ajax({type:"GET",url:i,success:e,error:Z})},Z=function(n){const e=n.responseJSON;e.message?d.html(e.message):d.html("Please try again later!")},nn=function(n){i=n;const e={itemArray:n.map(n=>n.name),itemHeight:40};new DropDownBox("dropdown-work-dist",e,"Quận/Huyện",en)},en=function(n){o=i.find(e=>e.name===n).id},an=function(){window.dropdownMap&&window.dropdownMap.size>0&&window.dropdownMap.forEach(n=>n.collapse())};window.addEventListener("click",an),_()});

diff --git a/src/index.html b/src/index.html
@@ -206,8 +206,8 @@
                             <strong>2. Phạm vi áp dụng:</strong> Toàn quốc
                             <br>
                             <br>
-                            <strong>3. Thời gian diễn ra Trò chơi:</strong> diễn ra trong 08 ngày liên tiếp từ
-                            08/05/2020 đến hết 15/05/2020. Thời gian và ngày tháng sẽ tuân thủ theo múi giờ Việt Nam.
+                            <strong>3. Thời gian diễn ra Trò chơi:</strong> diễn ra trong 10 ngày liên tiếp từ
+                            12/05/2020 đến hết 21/05/2020. Thời gian và ngày tháng sẽ tuân thủ theo múi giờ Việt Nam.
                             <br>
                             <br>
                             <strong>4. Đối tượng tham gia</strong>
@@ -221,7 +221,7 @@
                             <br>
                             <br>
                             &nbsp;&nbsp;&nbsp;&nbsp;&nbsp;&nbsp;▪ <strong>Nhân viên
-                                bán hàng tại nhà thuốc, quầy thuốc.</strong>
+                                bán hàng tại nhà thuốc, quầy <span id="rules-award-jump"><br id="mobile-ward-rules">&nbsp;&nbsp;&nbsp;&nbsp;&nbsp;&nbsp;</span> thuốc.</strong>
                             <br>
                             <br>
 
@@ -286,17 +286,17 @@
                             <strong>6. Thời gian công bố giải thưởng</strong>
                             <br>
                             <br>
-                            Trò chơi diễn ra trong 08 ngày liên tiếp từ 08/05/2020
-                            đến hết 15/05/2020. Thời gian và ngày tháng sẽ tuân thủ theo múi giờ Việt Nam. Kết quả trúng
+                            Trò chơi diễn ra trong 10 ngày liên tiếp từ 12/05/2020
+                            đến hết 21/05/2020. Thời gian và ngày tháng sẽ tuân thủ theo múi giờ Việt Nam. Kết quả trúng
                             thưởng sẽ được công bố theo thời gian cụ thể như sau:
                             <br>
                             <br>
                             &nbsp;&nbsp;&nbsp;&nbsp;&nbsp;&nbsp;▪ Chấm thi:
-                            18/05/2020 – 20/05/2020
+                            22/05/2020 – 26/05/2020
                             <br>
                             <br>
                             &nbsp;&nbsp;&nbsp;&nbsp;&nbsp;&nbsp;▪ Công bố kết quả
-                            Trò chơi: 21/05/2020
+                            Trò chơi: 27/05/2020
                             <br>
                             <br>
                             <strong>7. Cách thức trao giải thưởng</strong>
@@ -363,8 +363,8 @@
                             <strong>8. Hướng dẫn các bước tham gia Trò chơi</strong>
                             <br>
                             <br>
-                            Trò chơi được diễn ra trong 08 ngày liên tiếp từ
-                            08/05/2020 đến hết 15/05/2020 tại website VÌ BẠN XỨNG ĐÁNG theo liên kết: <a
+                            Trò chơi được diễn ra trong 10 ngày liên tiếp từ
+                            12/05/2020 đến hết 21/05/2020 tại website VÌ BẠN XỨNG ĐÁNG theo liên kết: <a
                                 href="#">vibanxungdang.merapgroup.com.vn</a>. Thời gian và ngày tháng sẽ tuân thủ theo
                             múi giờ Việt Nam.
                             <br>
@@ -484,7 +484,7 @@
                             tin này cho bất kì bên Thứ Ba nào.
                             <br>
                             <br>
-                            Trò chơi diễn ra trong 08 ngày liên tiếp từ 08/05/2020 đến hết 15/05/2020. Thời gian và ngày
+                            Trò chơi diễn ra trong 10 ngày liên tiếp từ 12/05/2020 đến hết 21/05/2020. Thời gian và ngày
                             tháng sẽ tuân thủ theo múi giờ Việt Nam. Có tổng cộng 104 giải thưởng sẽ được trao cho những
                             người thắng giải là công dân Việt Nam.
                             <br>
@@ -527,35 +527,30 @@
                         <div class="ec__button"></div>
                         <h3 class="content__title">GIẢI THƯỞNG</h3>
                         <p class="content__text prize__text">
-                            &nbsp;&nbsp;&nbsp;&nbsp;&nbsp;&nbsp;<strong>Giải Đặc Biệt</strong>
                             <br>
+                            <br>
+                            &nbsp;&nbsp;&nbsp;&nbsp;&nbsp;&nbsp;<strong>Giải Đặc Biệt</strong>
                             <br>
                             &nbsp;&nbsp;&nbsp;&nbsp;&nbsp;&nbsp;Số lượng: 01 Giải.
                             <br>
-                            <br>
                             &nbsp;&nbsp;&nbsp;&nbsp;&nbsp;&nbsp;Bao gồm: <strong>01 Điện Thoại Samsung Galaxy
-                                A10s</strong>
+                                <span id="rules-award-jump"><br id="mobile-ward-rules">&nbsp;&nbsp;&nbsp;&nbsp;&nbsp;&nbsp;</span>A10s</strong>
                             <br>
                             <br>
 
                             &nbsp;&nbsp;&nbsp;&nbsp;&nbsp;&nbsp;<strong>Giải Nhất</strong>
                             <br>
-                            <br>
                             &nbsp;&nbsp;&nbsp;&nbsp;&nbsp;&nbsp;Số lượng: 03 Giải.
                             <br>
-                            <br>
                             &nbsp;&nbsp;&nbsp;&nbsp;&nbsp;&nbsp;Mỗi giải bao gồm: <strong>01 Loa Bluetooth Sony
-                                ExtraBass XB01</strong>
+                                <span id="rules-award-jump"><br id="mobile-ward-rules">&nbsp;&nbsp;&nbsp;&nbsp;&nbsp;&nbsp;</span>ExtraBass XB01</strong>
                             <br>
                             <br>
                             &nbsp;&nbsp;&nbsp;&nbsp;&nbsp;&nbsp;<strong>Giải Khuyến Khích</strong>
                             <br>
-                            <br>
                             &nbsp;&nbsp;&nbsp;&nbsp;&nbsp;&nbsp;Số lượng: 100 Giải.
                             <br>
-                            <br>
-                            &nbsp;&nbsp;&nbsp;&nbsp;&nbsp;&nbsp;Mỗi giải bao gồm: <strong>01 Thẻ Cào Điện Thoại trị giá
-                                100.000VND</strong>
+                            &nbsp;&nbsp;&nbsp;&nbsp;&nbsp;&nbsp;Mỗi giải bao gồm: <strong>01 Thẻ Cào Điện Thoại <span id="rules-award-jump"><br id="mobile-ward-rules">&nbsp;&nbsp;&nbsp;&nbsp;&nbsp;&nbsp;</span>trị giá 100.000VND</strong>
                             <br>
                             <br>
                         </p>
@@ -673,7 +668,7 @@
                     <p class="chat__content">
                         <strong>Số Chứng Minh Nhân Dân</strong> của bạn sẽ là con số may mắn để tham gia quay số trúng
                         thưởng.<br>
-                        <br>Kết quả được công bố vào 21/05/2020 trên website Vì Bạn Xứng Đáng & Facebook fanpage Hội Nhà
+                        <br>Kết quả được công bố vào 27/05/2020 trên website Vì Bạn Xứng Đáng & Facebook fanpage Hội Nhà
                         Thuốc, Quầy Thuốc Việt Nam. Nhớ theo dõi để biết kết quả nha!
                     </p>
                 </div>

diff --git a/src/js/registration-part2.js b/src/js/registration-part2.js
@@ -1,5 +1,6 @@
 $(function () {
     let cityDataArray = [],
+        scannedCityArray = [],
         workDistDataArray = [],
         ddItemHeight = 40,
         selectedWorkCityID = 0,
@@ -553,6 +554,15 @@ $(function () {
         },
         onGetCitySuccess = function (response) {
             cityDataArray = response;
+            console.log(cityDataArray)
+            cityDataArray.map((city,index) => {
+                if (city.id != 282) {
+                    scannedCityArray.push(city)
+                }
+            })
+
+            cityDataArray = scannedCityArray;
+
             initCityDD();
         },
         onGetCityError = function (error) {
@@ -641,7 +651,7 @@ $(function () {
             })
             window.dispatchEvent(StartGameEvent);
             const quizSectionPos = $(document).height() - $("#quiz-section").height() - 100
-                $(window).scrollTop(quizSectionPos)
+            $(window).scrollTop(quizSectionPos)
         },
         onWorkCityClick = function (cityValue) {
             selectedWorkCityID = cityDataArray.find((item) => item.name === cityValue).id

diff --git a/src/js/common.js b/src/js/common.js
@@ -19,7 +19,7 @@ var isChrome = !!window.chrome && !!window.chrome.webstore;
 // Blink engine detection
 var isBlink = (isChrome || isOpera) && !!window.CSS;
 //var baseUrl = 'http://ngodungcan.website/merap/api/public/api/';
-var baseUrl = 'http://vibanxungdang.merapgroup.com.vn/api/public/api/';
+var baseUrl = 'https://vibanxungdang.merapgroup.com.vn/api/public/api/';
 // var isLocal = true;
 var isLocal = window.location.protocol === 'file:' || window.location.protocol === 'localhost:';
 const MerapCustomEvent = {

diff --git a/src/css/style.css b/src/css/style.css
@@ -1951,7 +1951,7 @@ b {
 
 @media screen and (max-width: 1000px) {
   .profile {
-    padding-top: 13%;
+    padding-top: 15%;
   }
 }
 
@@ -3427,6 +3427,10 @@ b {
 
 #rules-award-jump {
   display: none;
+}
+
+#red-highlight-text {
+  color: red;
 }
 
 @media screen and (max-width: 520px) {
